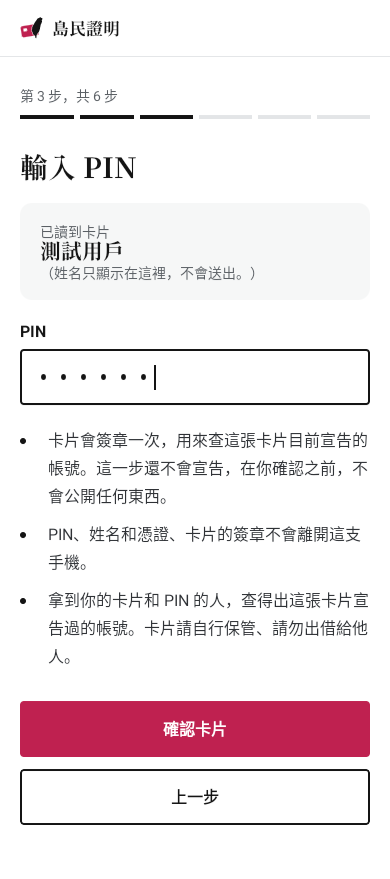
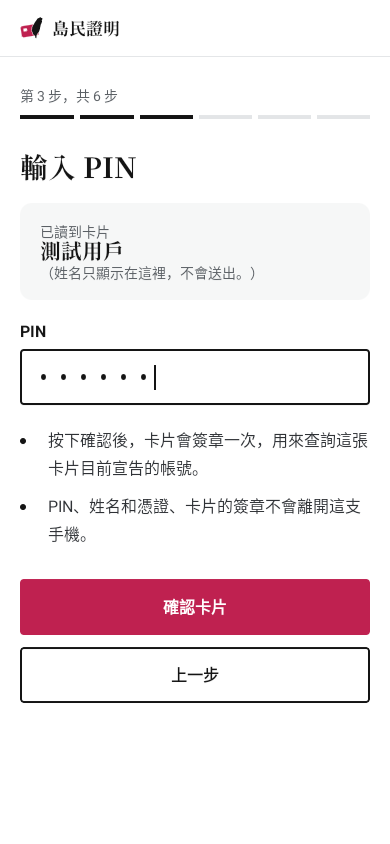
模擬器測試照新的第 1 到 5 步走；README；第 1 到 5 步的截圖（#361）

diff --git a/android/test/card-proof.ts b/android/test/card-proof.ts
@@ -29,9 +29,10 @@
 //    (`adb reverse`): the app reaches this server and nothing else.
 // 4. Goes through the six steps the way a cardholder does (taps and typing,
 //    the screen read with uiautomator), four times with the same card: a
-//    first declaration and a card proof again today; a switch and a
-//    withdrawal the next day (the back end's clock and the emulator's are
-//    moved a day on). Every sentence it expects on a screen is read from
+//    first declaration (the field filled) and a card proof again today
+//    (更新島民證明); the next day another account (改成別的帳號) and its
+//    withdrawal (收回對 @bob 的宣告); the back end's clock and the emulator's
+//    are moved a day on. Every sentence it expects on a screen is read from
 //    design/copy/card-proof.json. Twice a card with another certificate is
 //    held to the phone at a tap that would hand over the PIN (the second,
 //    the third): it gets none. At the end the app's storage holds nothing
@@ -369,13 +370,15 @@ interface Proof {
   name: string;
   /** Reads every screen against the copy (the first card proof); the others read what differs. */
   thorough: boolean;
-  /** What step 4 shows before anything is typed. */
-  accounts: { lead: string[]; rowLines: string[]; notes: string[]; absent: string[] };
+  /**
+   * What step 4 shows as it opens, and what is done on it (design/copy/card-proof.md, "4. 你的帳號"):
+   * fill: the card declares nothing, the account is typed into the field; refresh: 更新島民證明; switch: 改成別的帳號, then the account typed
+   * (`after`: what the screen says once it is pressed); withdraw: 收回對 @alice 的宣告.
+   */
+  accounts: { shows: string[]; absent: string[]; act: { do: "fill"; type: string } | { do: "refresh" } | { do: "switch"; type: string; after: string[] } | { do: "withdraw" } };
   /** At the last tap, another card is held to the phone first. */
   otherCardAtLastTap?: boolean;
-  /** What is typed into the Threads row: null leaves it; "" clears it. */
-  type: string | null;
-  /** The account the row holds before. */
+  /** The account the card declares before: "" for none. */
   current: string;
   confirm: { intro: string; account: string; under: string; button: string; shows: string[]; absent: string[] };
   /** `card`: the card's proof, the hanging and what can be done besides are shown (all but a withdrawal of every account). `reminder`: what the reminder's part says. */
@@ -394,9 +397,25 @@ async function cardProof(p: Proof): Promise<string> {
     shot("step-1");
     await designShot("card-proof-app-1-before-phone.png");
     const s = wholeScreen();
-    shows(s, "step 1", [say("common.service_name"), say("before.title"), say("before.prepare_card"), say("before.citizens_only"), say("before.one_proof_single", { platform: THREADS }), say("before.why_physical"), say("before.how_to_get"), say("common.next")]);
-    check(!s.includes(say("before.listed_together")) && !s.includes(say("common.back")), "step 1 has no 上一步, and with one platform not the sentence about several");
+    shows(s, "step 1", [say("common.service_name"), say("before.title"), say("before.prepare_card"), say("before.citizens_only"), say("before.why_physical"), say("before.how_to_get"), say("common.next")]);
+    check(!s.includes(say("before.one_proof")) && !s.includes(say("before.listed_together")) && !s.includes(say("common.back")), "step 1 has no 上一步, and with one platform not the sentences about several");
     check(!s.includes(say("before.duration")), "step 1 does not say the web's sentence of a card reader and 3 minutes");
+    check(!s.includes(say("before.why_physical_card")) && !s.includes(say("before.find_office")), "step 1: the two questions are closed");
+    // The two questions, opened: the second has the two ways out of the app, for someone without a card yet.
+    press(say("before.why_physical"));
+    press(say("before.how_to_get"));
+    shows(wholeScreen(), "step 1, the questions opened,", [say("before.why_physical_card"), say("before.why_physical_mobile"), say("before.how_to_get_counter"), say("before.find_office"), say("before.how_to_get_moica")]);
+    press(say("before.find_office"));
+    await sleep(2_000);
+    {
+      // The phone's map app, searching for the offices; this emulator has none, so the same search on a map's site, in its browser.
+      const top = onTop();
+      const office = encodeURIComponent("戶政事務所");
+      check(top.includes(`dat=geo:0,0?q=${office}`) || top.includes(`dat=https://www.google.com/maps/search/?api=1&query=${office}`), "step 1: 找附近的戶政事務所 opens a map's search for 戶政事務所 outside the app");
+      check(!new RegExp(`mResumedActivity.*${APP.replaceAll(".", "\\.")}/`).test(top), "step 1: the map's search is on top, not the app");
+    }
+    emulator.shell(`am start -n ${APP}/tw.iamreal.app.MainActivity`);
+    find((n) => n.text === step(1) || n.text === say("before.find_office"), "the app again, still at step 1");
   }
   press(say("common.next"));
 
@@ -431,8 +450,10 @@ async function cardProof(p: Proof): Promise<string> {
     const s = wholeScreen();
     shows(s, "step 3", [NAME, say("pin.name_note")]);
     if (p.thorough) {
-      shows(s, "step 3", [say("pin.title"), say("pin.card_read"), say("pin.label"), say("pin.purpose"), say("app_pin.stays"), say("pin.card_and_pin"), say("common.back"), say("pin.confirm_card")]);
+      shows(s, "step 3", [say("pin.title"), say("pin.card_read"), say("pin.label"), say("pin.purpose"), say("app_pin.stays"), say("common.back"), say("pin.confirm_card")]);
       check(!s.includes(say("pin.stays")) && !s.includes(say("pin.pin_characters")), "step 3 says 這支手機, and nothing about characters a PIN may not have");
+      // Who can look the card's accounts up with the card and the PIN is step 5's to say, once.
+      check(!s.some((t) => t.includes(say("pin.label")) && t !== say("pin.label") && t !== say("pin.title") && t !== say("pin.purpose") && t !== say("app_pin.stays")), "step 3 has the two points and no third");
       // Without a PIN, no panel.
       press(say("pin.confirm_card"));
       await waitText(say("app_pin.need_pin"), "the sentence for an empty PIN", 10_000);
@@ -462,26 +483,69 @@ async function cardProof(p: Proof): Promise<string> {
 
   // Step 4
   await waitText(step(4), "step 4", 120_000);
+  const act = p.accounts.act;
   {
     shot(`step-4-${p.name}`);
     const s = wholeScreen();
-    shows(s, "step 4", [say("accounts.title_single", { platform: THREADS }), ...p.accounts.lead, ...p.accounts.rowLines, ...p.accounts.notes]);
-    for (const a of p.accounts.absent) check(!s.includes(a), `step 4 does not say "${a.slice(0, 40)}…"`);
-    if (p.thorough) {
-      shows(s, "step 4", [THREADS, "@", say("app_accounts.preview"), say("app_accounts.preview_note", { platform: THREADS }), say("common.next"), say("accounts.not_yours_single", { platform: THREADS }), say("common.cancel")]);
-      check(!s.includes(say("accounts.preview")) && !s.includes(say("accounts.title")) && !s.includes(say("accounts.not_yours")), "step 4 is the one-platform screen, with 預覽");
+    shows(s, "step 4", [say("accounts.title_single", { platform: THREADS }), ...p.accounts.shows, say("common.cancel")]);
+    for (const a of [...p.accounts.absent, say("accounts.title"), say("accounts.edit_list"), say("accounts.switches_limited"), say("accounts.preview")]) check(!s.includes(a), `step 4 does not say "${a.slice(0, 40)}"`);
+    if (p.current === "") {
+      // Nothing declared: the field, and nothing of what a card with an account can do.
+      shows(s, "step 4", [THREADS, "@", say("app_accounts.preview"), say("app_accounts.preview_note", { platform: THREADS }), say("common.next")]);
+      for (const a of [say("accounts.refresh"), say("accounts.switch"), say("accounts.declared_now")]) check(!s.includes(a), `step 4, nothing declared, does not say "${a}"`);
+      check(field("account-threads").text === "", "step 4: the field is empty");
+    } else {
+      // An account declared: it is written out, with the main button and the two other things to do; no field.
+      const account = `@${p.current}`;
+      shows(s, "step 4", [say("accounts.declared_now"), account, say("accounts.refresh"), say("accounts.refresh_note"), say("accounts.switch"), say("accounts.withdraw", { account })]);
+      check(field("current-threads").text === account, `step 4: the card declares ${account}`);
+      check(!s.includes(say("common.next")) && !s.includes(say("app_accounts.preview")) && !s.includes(say("accounts.keep")), "step 4, an account declared: no field, no 下一步");
     }
-    check(field("account-threads").text === p.current, `step 4: the Threads row holds "${p.current}"`);
   }
-  if (p.type !== null) {
+  /** Types an account into the Threads field, which is empty. */
+  const typeAccount = (account: string): void => {
     emulator.tap(field("account-threads"));
-    emulator.erase(p.current.length);
-    if (p.type !== "") emulator.type(p.type);
+    emulator.type(account);
     hideKeyboard();
-    check(field("account-threads").text === p.type, `step 4: the Threads row now holds "${p.type}"`);
+    check(field("account-threads").text === account, `step 4: the field now holds "${account}"`);
+  };
+  if (act.do === "fill") {
+    if (p.thorough) {
+      // Nothing typed: 下一步 goes nowhere.
+      press(say("common.next"));
+      await waitText(say("accounts.need_one"), "step 4: the sentence for an empty list", 10_000);
+      check(true, "step 4: with nothing typed, 下一步 stays and says 請至少填一個帳號。");
+    }
+    typeAccount(act.type);
     if (p.thorough) await designShot("card-proof-app-4-accounts-phone.png");
+    press(say("common.next"));
+  } else if (act.do === "refresh") {
+    press(say("accounts.refresh"));
+  } else if (act.do === "withdraw") {
+    press(say("accounts.withdraw", { account: `@${p.current}` }));
+  } else {
+    const inline = say("accounts.declared_inline", { account: `@${p.current}` });
+    press(say("accounts.switch"));
+    await waitText(inline, "step 4 after 改成別的帳號", 10_000);
+    {
+      shot(`step-4-${p.name}-field`);
+      const s = wholeScreen();
+      shows(s, "step 4, after 改成別的帳號,", [step(4), say("accounts.title_single", { platform: THREADS }), inline, say("accounts.switch"), THREADS, "@", say("app_accounts.preview"), ...act.after, say("app_accounts.preview_note", { platform: THREADS }), say("common.next"), say("accounts.keep"), say("common.cancel")]);
+      check(!s.includes(say("accounts.refresh")) && !s.includes(say("accounts.declared_now")), "step 4, after 改成別的帳號: no 更新島民證明");
+      check(field("account-threads").text === "", "step 4, after 改成別的帳號: the field is empty");
+    }
+    // An empty field goes nowhere: withdrawing is the other thing to do.
+    press(say("common.next"));
+    await waitText(say("accounts.need_one"), "step 4: the sentence for an empty field", 10_000);
+    // 不改了: back to what the card declares; then again.
+    press(say("accounts.keep"));
+    await waitText(say("accounts.refresh"), "step 4 again, after 不改了", 10_000);
+    check(!textsOf(visible()).includes(inline), "step 4: 不改了 goes back to what the card declares");
+    press(say("accounts.switch"));
+    await waitText(inline, "step 4 after 改成別的帳號, again", 10_000);
+    typeAccount(act.type);
+    press(say("common.next"));
   }
-  press(say("common.next"));
 
   // Step 5
   await waitText(say("confirm.title"), "step 5");
@@ -490,11 +554,20 @@ async function cardProof(p: Proof): Promise<string> {
     shot(`step-5-${p.name}`);
     if (p.thorough) await designShot("card-proof-app-5-confirm-phone.png");
     const s = wholeScreen();
-    shows(s, "step 5", [step(5), p.confirm.intro, THREADS, p.confirm.account, p.confirm.under, say("confirm.date"), p.date, say("confirm.short_id_label"), say("confirm.no_identity"), ...p.confirm.shows, say("common.back"), p.confirm.button, say("common.cancel")]);
-    for (const a of p.confirm.absent) check(!s.includes(a), `step 5 does not say "${a.slice(0, 40)}…"`);
+    shows(s, "step 5", [step(5), p.confirm.intro, THREADS, p.confirm.account, p.confirm.under, say("confirm.date"), p.date, say("confirm.short_id_label"), say("confirm.not_identifiable", { platform: THREADS }), ...p.confirm.shows, say("common.back"), p.confirm.button, say("common.cancel")]);
+    // With one platform: nothing of a list of several.
+    for (const a of [...p.confirm.absent, say("confirm.intro"), say("confirm.listed_together"), say("confirm.withdraw_stays")]) check(!s.includes(a), `step 5 does not say "${a.slice(0, 40)}…"`);
     const opening = new RegExp(`^${say("confirm.short_id", { short_id: "([0-9A-Z]{10})" })}$`);
     shortId = s.map((t) => opening.exec(t)?.[1]).find((x) => x !== undefined) ?? "";
     check(shortId !== "", `step 5 shows how the card's short ID begins: ${shortId}`);
+  }
+  if (act.do === "fill" || act.do === "switch") {
+    // 上一步: the screen of step 4 the button was pressed on, the field as it was typed.
+    press(say("common.back"));
+    await waitText(step(4), "step 4 again, from step 5", 10_000);
+    check(field("account-threads").text === act.type, `step 5: 上一步 goes back to step 4 with "${act.type}" still in the field`);
+    press(say("common.next"));
+    await waitText(say("confirm.title"), "step 5 again");
   }
   press(p.confirm.button);
   await waitText(say("progress.title"), "step 5, in progress");
@@ -814,8 +887,9 @@ try {
 
   // 4. Four card proofs --------------------------------------------------------------
   const HANDLE = { alice: "@alice", bob: "@bob" };
-  const more = say("accounts.switches_limited");
-  const later = say("confirm.later") + say("confirm.permanent");
+  /** Step 5's two points when the list is not empty, and its three when it is. */
+  const holder = say("confirm.holder_later", { platform: THREADS, cannot_delete: say("confirm.cannot_delete") });
+  const WITHDRAWN = [say("confirm.history_stays"), say("confirm.holder_later_withdraw")];
 
   await anotherCardThenCancel();
 
@@ -824,15 +898,9 @@ try {
     what: "a first declaration: @alice",
     name: "first",
     thorough: true,
-    accounts: {
-      lead: [say("accounts.none_yet"), say("accounts.fill_one_single", { platform: THREADS })],
-      rowLines: [say("accounts.row_unused")],
-      notes: [say("accounts.one_per_platform_single", { platform: THREADS }) + more],
-      absent: [say("accounts.how_refresh"), say("accounts.current")],
-    },
-    type: "alice",
+    accounts: { shows: [say("accounts.none_yet"), say("accounts.fill_one_single", { platform: THREADS })], absent: [say("accounts.row_unused"), say("accounts.nothing_now")], act: { do: "fill", type: "alice" } },
     current: "",
-    confirm: { intro: say("confirm.intro_single"), account: HANDLE.alice, under: say("kinds.first"), button: say("confirm.button_declare_single"), shows: [say("confirm.listed_single", { platform: THREADS }), later], absent: [say("confirm.listed_together"), say("confirm.withdraw_stays")] },
+    confirm: { intro: say("confirm.intro_public"), account: HANDLE.alice, under: say("kinds.first"), button: say("confirm.button_declare_single"), shows: [holder], absent: WITHDRAWN },
     done: { title: say("done.first"), shows: [say("done.new_card")], absent: [say("done.withdrawn_link")], card: true, reminder: [...reminderSays(today), say("app_done.reminder_turn_on"), say("app_done.reminder_adjust")] },
     date: today,
   });
@@ -869,21 +937,15 @@ try {
   await backToApp();
   press(say("done.restart"));
 
-  // A card proof again, the same day: nothing changed.
+  // A card proof again, the same day: 更新島民證明, nothing typed.
   const again = await cardProof({
-    what: "a card proof again: nothing changed; another card at the last tap first",
+    what: "a card proof again: 更新島民證明; another card at the last tap first",
     name: "again",
     thorough: false,
     otherCardAtLastTap: true,
-    accounts: {
-      lead: [say("accounts.current") + say("accounts.last_card_proof_today")],
-      rowLines: [say("accounts.row_no_switches_yet", { switches_left: 5 }), say("accounts.row_today")],
-      notes: [say("accounts.how_refresh"), say("accounts.how_change") + more],
-      absent: [say("accounts.none_yet")],
-    },
-    type: null,
+    accounts: { shows: [say("accounts.last_proof_today")], absent: [say("accounts.none_yet")], act: { do: "refresh" } },
     current: "alice",
-    confirm: { intro: say("confirm.intro_single"), account: HANDLE.alice, under: say("kinds.unchanged"), button: say("confirm.button_refresh"), shows: [say("confirm.listed_single", { platform: THREADS }), later], absent: [say("confirm.withdraw_stays")] },
+    confirm: { intro: say("confirm.intro_public"), account: HANDLE.alice, under: say("kinds.unchanged"), button: say("confirm.button_refresh"), shows: [holder], absent: WITHDRAWN },
     done: { title: say("done.refresh"), shows: [], absent: [say("done.new_card"), say("done.withdrawn_link")], card: true, reminder: [...reminderSays(today), say("app_done.reminder_change")] },
     date: today,
   });
@@ -893,52 +955,45 @@ try {
   // The next day, by the back end's clock and the emulator's.
   await setClocks(new Date(`${tomorrow}T12:00:00+08:00`));
 
-  // A switch: @alice gives way to @bob.
+  // 改成別的帳號: @alice gives way to @bob.
   await cardProof({
-    what: "the next day, a switch: @bob in place of @alice",
+    what: "the next day, 改成別的帳號: @bob in place of @alice",
     name: "switch",
     thorough: false,
     accounts: {
-      lead: [say("accounts.current") + say("accounts.last_card_proof", { days_ago: 1 })],
-      rowLines: [say("accounts.row_no_switches_yet", { switches_left: 5 })],
-      notes: [say("accounts.how_refresh"), say("accounts.how_change") + more],
-      absent: [say("accounts.row_today")],
+      shows: [say("accounts.last_proof", { days_ago: 1 })],
+      absent: [say("accounts.last_proof_today")],
+      // What the change does, and the switches left after it: said only now.
+      act: { do: "switch", type: "bob", after: [say("accounts.switch_effect", { account: HANDLE.alice }) + say("accounts.switch_limit", { switches_left: 4 })] },
     },
-    type: "bob",
     current: "alice",
     confirm: {
-      intro: say("confirm.intro_single"),
+      intro: say("confirm.intro_public"),
       account: HANDLE.bob,
       under: say("kinds.switch", { previous: HANDLE.alice }) + say("confirm.uses_switch", { switches_left: 4 }),
       button: say("confirm.button_declare_single"),
-      shows: [say("confirm.listed_single", { platform: THREADS }), later],
-      absent: [say("confirm.withdraw_stays")],
+      shows: [holder],
+      absent: WITHDRAWN,
     },
     done: { title: say("done.changed"), shows: [], absent: [say("done.new_card"), say("done.withdrawn_link")], card: true, reminder: [...reminderSays(tomorrow), say("app_done.reminder_change")] },
     date: tomorrow,
   });
   press(say("done.restart"));
 
-  // A withdrawal: the row cleared.
+  // 收回對 @bob 的宣告.
   await cardProof({
-    what: "a withdrawal: the row cleared",
+    what: "a withdrawal: 收回對 @bob 的宣告",
     name: "withdrawal",
     thorough: false,
-    accounts: {
-      lead: [say("accounts.current") + say("accounts.last_card_proof_today")],
-      rowLines: [say("accounts.row_switches", { switches_used: 1, switches_left: 4 }), say("accounts.row_today")],
-      notes: [say("accounts.how_refresh"), say("accounts.how_change") + more],
-      absent: [],
-    },
-    type: "",
+    accounts: { shows: [say("accounts.last_proof_today")], absent: [], act: { do: "withdraw" } },
     current: "bob",
     confirm: {
       intro: say("confirm.intro_withdraw_all"),
       account: HANDLE.bob,
       under: say("kinds.withdraw"),
-      button: say("confirm.button_withdraw_all"),
-      shows: [say("confirm.withdraw_stays"), say("confirm.later_withdraw") + say("confirm.permanent")],
-      absent: [say("confirm.listed_single", { platform: THREADS }), later],
+      button: say("confirm.button_withdraw", { account: HANDLE.bob }),
+      shows: WITHDRAWN,
+      absent: [holder, say("confirm.intro_public")],
     },
     done: { title: say("done.withdraw_all"), shows: [say("done.withdrawn_link")], absent: [say("done.new_card")], card: false, reminder: [] },
     date: tomorrow,

diff --git a/android/README.md b/android/README.md
@@ -88,7 +88,7 @@
 - **存下來的只有兩樣**，都在 app 自己的偏好設定檔：每把發證金鑰用過的最高清冊編號（`MainActivity.kt` 的 `StoredCrlNumbers`，清冊編號是公開的數字），和提醒開著時的四樣東西（`reminder/Phone.kt` 的 `PreferencesStorage`，「過卡提醒」）
 - **連網路的只有 `backend/Backend.kt`**：後台的四個介面和清冊鏡像的兩種檔案，位置是建置時寫死的。請求不帶 cookie、不帶手機或 app 的任何識別、不回報 app 自己檢查的結果（ADR-0016）。送出去的內容由核心組；核心在檢查都通過之前不算匿名編號（`device-core/README.md`「檢查都通過了」），所以這裡的程式順序寫錯時，帶著匿名編號的請求送不出去
 - **碰卡片的只有 `card/` 這一層**：一次感應是一次 `tap`，裡面先 `readCertificates`（不用 PIN），再 `sign`（帶 PIN）。發出去的 app 用 NFC 讀真卡片（「讀卡」）。要的權限多一個 `NFC`，它只讓 app 和貼在手機上的卡片說話
-- 看島民證明、Threads 的個人檔案都是開瀏覽器（或 Threads 的 app），app 裡不載入任何網頁。完成畫面的「分享」交給系統的分享面板，帶一句話（有後台回的順序號碼就寫「第 N 張」）和這張島民證明的網址
+- 看島民證明、Threads 的個人檔案都是開瀏覽器（或 Threads 的 app），app 裡不載入任何網頁。第 1 步「還沒有自然人憑證，怎麼申辦？」裡的兩個連結也是交給別的 app（`design/copy/card-proof.md`「1. 開始之前」）：「找附近的戶政事務所」交給手機的地圖 app 搜尋「戶政事務所」（`geo:0,0?q=…`；手機上沒有 app 接這種網址時，改開地圖網站的同一個搜尋），另一個開內政部憑證管理中心的網站。這時還沒有讀卡，兩個都不帶任何過卡的資料；app 不要位置的權限，附近是地圖自己判斷的（`ui/Screens.kt` 的 `FIND_OFFICE_MAP`）。完成畫面的「分享」交給系統的分享面板，帶一句話（有後台回的順序號碼就寫「第 N 張」）和這張島民證明的網址
 
 ## 目錄
 
@@ -239,12 +239,14 @@ cd device-core && rustup target add aarch64-linux-android x86_64-linux-android &
 
 ### 模擬器上過一次卡
 
-`test/card-proof.ts`：在模擬器上照持卡人的方式（點按、打字）走完六步，四次：新宣告、再次過卡，隔天更換、收回。形狀照 `web/test/worker-card-proof.ts`，把瀏覽器換成模擬器。
+`test/card-proof.ts`：在模擬器上照持卡人的方式（點按、打字）走完六步，四次：新宣告（填帳號的欄位）、再次過卡（「更新島民證明」），隔天更換（「改成別的帳號」）、收回（「收回對 @bob 的宣告」）。形狀照 `web/test/worker-card-proof.ts`，把瀏覽器換成模擬器。
 
 - **後台和卡片的金鑰是 `web/test/app-backend.ts` 的**（Android 和 iOS 的測試共用）：它起本機的 Worker（`worker/test/harness.ts` 的測試建置：測試的發證金鑰、假的內政部、可調的時鐘），用 `web/test/fixtures` 當場產生卡片的金鑰和憑證，寫成 `web/test-output/app/backend.json`，再把這裡的測試當成它的指令跑起來。這裡的測試只讀那個檔、講 HTTP，不引用 `web/`、`worker/` 的程式
 - **卡片是假的**：`app/src/fake/…/FakeCard.kt`，用那把測試金鑰簽章。每一次感應向測試問「現在貼上來的是哪一張卡」，所以測試決定什麼時候貼卡、貼哪一張
 - **app 是 build type `fake`**：`src/fake/` 換掉 `src/real/`（假卡片、連 `127.0.0.1:18169`、認測試金鑰的 session），原生函式庫是測試用的那一種。其他的程式和發出去的 app 是同一份
 - 測試關掉模擬器的網路，只把模擬器的 18169 埠轉到本機的伺服器（`adb reverse`）：app 連得到的只有它。完成畫面打開 Threads 個人檔案的瀏覽器因此不會真的連出去
+- 第 1 步的「找附近的戶政事務所」：看系統打開的網址是地圖的搜尋。模擬器上沒有地圖 app，所以測到的是改開地圖網站的那一條路；交給地圖 app 的那一條要在真手機上按一次
+- 第 4 步：沒有宣告時什麼都不填按「下一步」不往下；「改成別的帳號」之後欄位是空的，空的按「下一步」不往下，「不改了」回到原本的畫面；第 5 步按「上一步」回到剛才那個畫面，欄位照剛才填的
 - 完成畫面的按鈕：複製連結、打開 Threads 的個人檔案和這張島民證明（看系統打開的網址），「分享」叫出系統的分享面板，面板上顯示的分享內容是帶順序號碼的那一句（號碼和 Worker 上那一頁寫的相同）和這張島民證明的網址
 - 畫面用 `uiautomator dump` 讀，預期的每一句從 `design/copy/card-proof.json` 讀，逐字比對
 - 第二、第三次感應各貼一次「該放簽章憑證的位置是另一張憑證」的卡：畫面說不是同一張卡，假卡片沒有被交到 PIN
